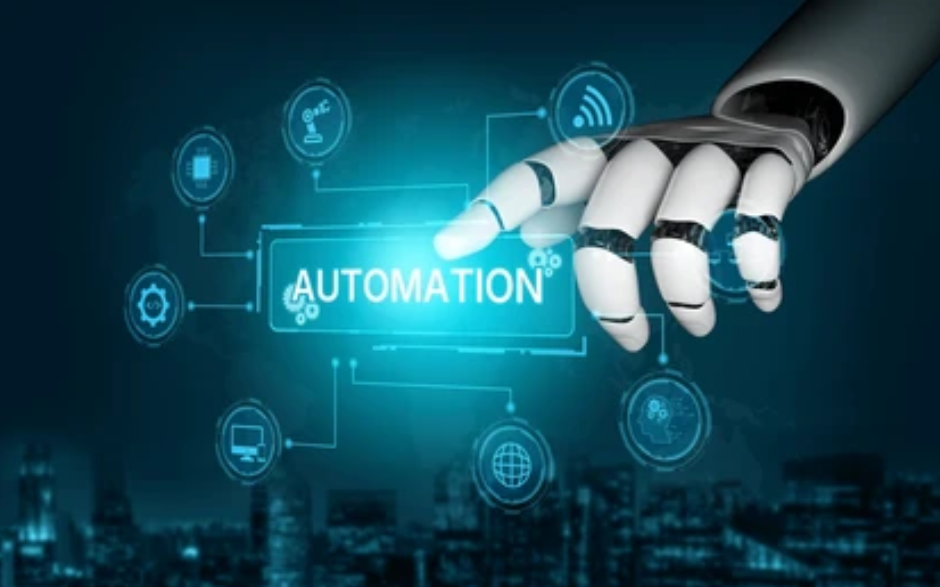
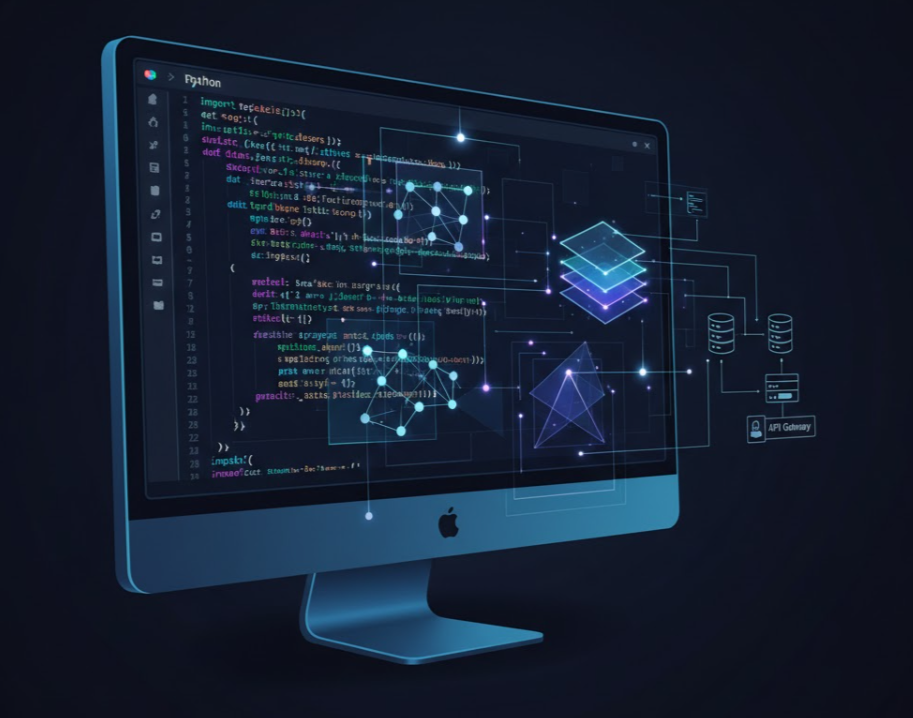
remove python image

diff --git a/src/app/data/constant.ts b/src/app/data/constant.ts
@@ -87,7 +87,7 @@ export const COURSES: Course[] = [
     title: 'Python for AI & Backend Development',
     description: 'Master Python programming with a focus on AI applications, backend development, and automation pipelines.',
     level: 'Advanced',
-    image: '/images/courses/pythonnew.png',
+    image: '/images/courses/python.png',
     url: '#'
   },
   {
